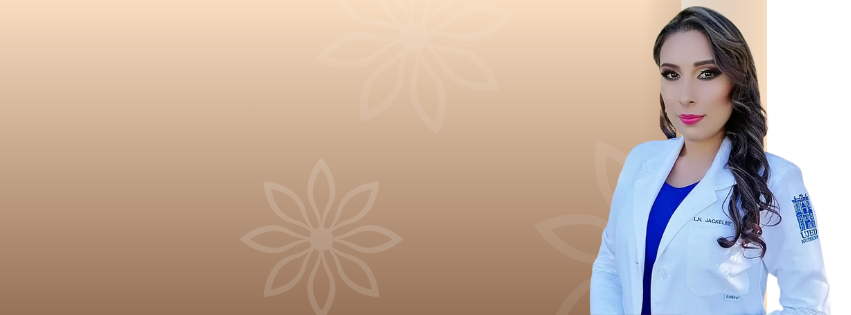
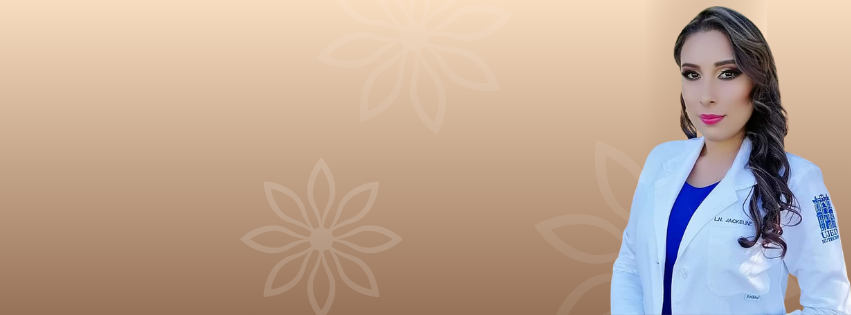
update-login

Changed region(s): [[0.6722, 0.0, 1.0, 1.0]]

diff --git a/src/components/Login.js b/src/components/Login.js
@@ -1,0 +1,97 @@
+import { useState } from 'react';
+import '../app/globals.css';
+
+
+const Login = () => {
+  const [email, setEmail] = useState('');
+  const [password, setPassword] = useState('');
+  const [showPopup, setShowPopup] = useState(false);
+
+  const handleLogin = (e) => {
+    e.preventDefault();
+    // Aquí puedes agregar la lógica de autenticación
+    console.log("Email:", email, "Password:", password);
+  };
+
+  return (
+    <div className="flex items-center justify-center min-h-screen bg-gray-100">
+      <form 
+        onSubmit={handleLogin} 
+        className="flex flex-col items-center gap-4 w-full max-w-sm bg-white p-6 rounded-lg shadow-lg"
+      >
+        <div className="flex flex-col w-full gap-2">
+          <label htmlFor="email" className="text-green-600 font-semibold">Correo</label>
+          <input
+            type="email"
+            id="email"
+            value={email}
+            onChange={(e) => setEmail(e.target.value)}
+            className="w-full p-3 rounded-md bg-gray-200 border-2 border-gray-500 focus:border-green-500 outline-none"
+            required
+          />
+        </div>
+        <div className="flex flex-col w-full gap-2">
+          <label htmlFor="password" className="text-green-600 font-semibold">Contraseña</label>
+          <input
+            type="password"
+            id="password"
+            value={password}
+            onChange={(e) => setPassword(e.target.value)}
+            className="w-full p-3 rounded-md bg-gray-200 border-2 border-gray-500 focus:border-green-500 outline-none"
+            required
+          />
+        </div>
+        <div className="w-full text-right">
+          <a href="#" className="text-gray-600 hover:text-green-500">Olvidaste tu contraseña :-(</a>
+        </div>
+        <button 
+          type="submit" 
+          className="w-full py-3 mt-4 bg-gray-700 text-white rounded-full font-semibold transition-colors hover:bg-green-500 hover:text-gray-700"
+        >
+          Entrar
+        </button>
+        <div className="text-gray-700">
+          ¿Te gustaría una sesión con SiluettePlusJC?{" "}
+          <button
+            type="button"
+            onClick={() => setShowPopup(true)}
+            className="text-green-500 hover:underline"
+          >
+            Inscríbete
+          </button>
+        </div>
+      </form>
+    {/* Popup del Formulario */}
+    {showPopup && (
+        <div className="fixed inset-0 bg-black bg-opacity-50 flex items-center justify-center z-50">
+          <div className="bg-white p-6 rounded-lg shadow-lg w-full max-w-md relative">
+            <button
+              onClick={() => setShowPopup(false)}
+              className="absolute top-2 right-2 text-gray-600 hover:text-gray-800 font-bold"
+            >
+              &times;
+            </button>
+            <h2 className="text-2xl font-bold mb-4 text-center">Inscríbete</h2>
+            <div className="appointment-form bg-[#9b5ab7] text-white p-10">
+                  <h2 className="text-2xl mb-2">Inscribete  <span className="italic">a nuestros cursos</span></h2>
+                  <form className="space-y-4">
+                    <label htmlFor="name">Nombre</label>
+                    <input type="text" id="name" name="name" className="w-full p-2 rounded text-black" required />
+                    <label htmlFor="email">Correo</label>
+                    <input type="email" id="email" name="email" className="w-full p-2 rounded text-black" required />
+                    <label htmlFor="phone">Teléfono</label>
+                    <input type="tel" id="phone" name="phone" className="w-full p-2 rounded text-black" required />
+                    <label htmlFor="message">Mensaje</label>
+                    <textarea id="message" name="message" rows="3" className="w-full p-2 rounded text-black" required></textarea>
+                    <button type="submit" className="bg-black text-white px-4 py-2 rounded">Enviar Whatsapp</button>
+                  </form>
+                </div>   
+          
+          </div>
+        </div>
+      )}
+    </div>
+  );
+};
+
+export default Login;

diff --git a/src/components/Banner.js b/src/components/Banner.js
@@ -1,13 +1,15 @@
 const Banner = () => {
-    return (
-      <section className="banner h-[450px] bg-cover bg-center flex items-center justify-center text-white" style={{ backgroundImage: "url('/img/banner_01.png')" }}>
-        <div className="banner-content max-w-lg text-center">
-          <h1 className="banner-title text-4xl font-bold mb-2">Tu Belleza Natural</h1>
-          <h2 className="banner-subtitle text-2xl font-light">Bienvenida a Siluette Plus JC</h2>
-        </div>
-      </section>
-    );
-  };
-  
-  export default Banner;
-  
+  return (
+    <section
+      className="banner h-[450px] bg-cover bg-center md:bg-center sm:bg-[center_right_25%] flex items-center justify-center text-white md:h-[450px] sm:h-[350px] p-4"
+      style={{ backgroundImage: "url('/img/banner_01.png')" }}
+    >
+      <div className="banner-content max-w-lg text-center mx-auto">
+        <h1 className="banner-title text-4xl font-bold mb-2 md:text-4xl sm:text-3xl">Tu Belleza Natural</h1>
+        <h2 className="banner-subtitle text-2xl font-light md:text-2xl sm:text-xl">Bienvenida a Siluette Plus JC</h2>
+      </div>
+    </section>
+  );
+};
+
+export default Banner;

diff --git a/src/components/Header.js b/src/components/Header.js
@@ -1,3 +1,5 @@
+import Image from "next/image";
+import Link from 'next/link';
 
 
 const Header = () => {
@@ -19,7 +21,7 @@ const Header = () => {
    {/* Barra principal con logo, título y botón */}
    <div className="main-bar flex flex-col md:flex-row justify-between items-center h-auto md:h-24 bg-white p-4">
     <div className="logo mb-2 md:mb-0">
-
+    <Image src="/img/silluet_logo.png" alt="Logo" width={100} height={100} />
     </div>
     <div className="logo text-center md:text-left text-[#cbaa3d] text-xl font-great-vibes italic">
       <p>Siluette Plus JC</p>
@@ -36,7 +38,7 @@ const Header = () => {
       <li className="mb-2 md:mb-0"><a href="#home">Home</a></li>
       <li className="mb-2 md:mb-0"><a href="#cursos">Cursos</a></li>
       <li className="mb-2 md:mb-0"><a href="#servicios">Servicios</a></li>
-      <li><a href="#contact">Regístrate</a></li>
+      <li><Link href="/login">Regístrate</Link></li>
     </ul>
   </nav>
 </header>

diff --git a/src/pages/login.js b/src/pages/login.js
@@ -1,0 +1,8 @@
+// src/pages/login.js
+import Login from '../components/Login';
+
+const LoginPage = () => {
+  return <Login />;
+};
+
+export default LoginPage;
